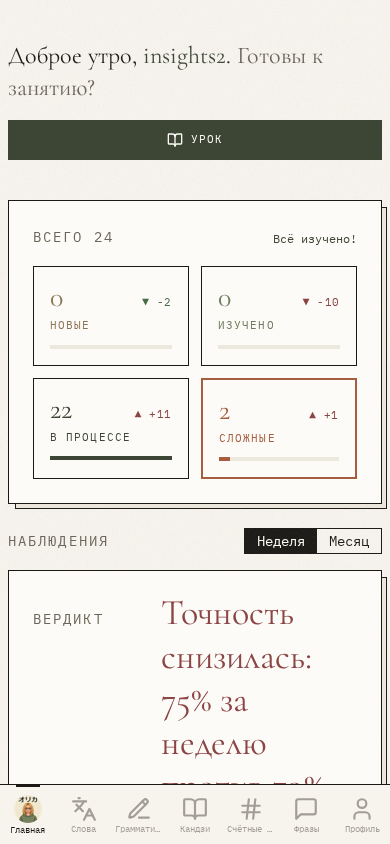
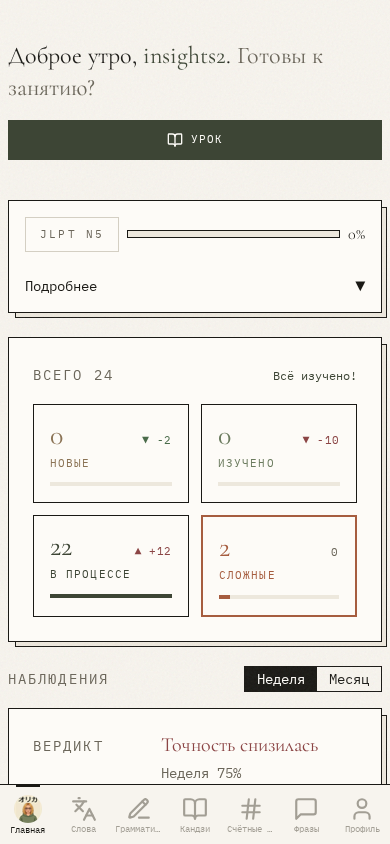
fix(ui): ledger two-tier rows, JLPT card back on top (#749)
Feedback: the verdict phrase rendered at h2 scale and crammed the
fact, the comparison window and the delta into one sentence. Split
each row into a headline fact plus a mono sub-line holding the
numbers (delta arrows, both accuracy windows, sample size, late-vs-
ontime percentages) — the KPI pattern of value/delta/comparison as
separate slots. Verdict font drops to h3. The JLPT progress card
returns to the top of home, above the counts card. Node seed script
now emits raw-deflate wire format and valid 26-char ULIDs.

diff --git a/origa_ui/src/pages/home/insights/mod.rs b/origa_ui/src/pages/home/insights/mod.rs
@@ -8,11 +8,11 @@ pub mod week;
 
 pub use panels_data::{InsightsPanels, compute_insights_panels};
 
-use hardest_words::{words_label, words_verdict_text};
+use hardest_words::{words_label, words_subline_text, words_verdict_text};
 use leptos::prelude::*;
-use overdue::{overdue_label, overdue_verdict_text};
-use pace::{pace_label, pace_verdict_text};
-use time_of_day::{time_label, time_verdict_text};
+use overdue::{overdue_label, overdue_subline_text, overdue_verdict_text};
+use pace::{pace_label, pace_subline_text, pace_verdict_text};
+use time_of_day::{time_label, time_subline_text, time_verdict_text};
 use week::{verdict_label, week_subline_text, week_verdict_class, week_verdict_text};
 
 use crate::i18n::{td_string, use_i18n};
@@ -105,6 +105,9 @@ pub fn InsightsSection(
                         pace_verdict_text(i18n, panels.get().pace.as_ref())
                     })
                     phrase_class=Signal::derive(|| "heading-h3 text-[var(--fg-black)]".to_string())
+                    subline=Signal::derive(move || {
+                        pace_subline_text(i18n, panels.get().pace.as_ref())
+                    })
                     row_test_id=Signal::derive(move || format!("{}-pace", section_prefix()))
                 />
                 <LedgerRow
@@ -113,6 +116,9 @@ pub fn InsightsSection(
                         time_verdict_text(i18n, panels.get().time_of_day.as_ref())
                     })
                     phrase_class=Signal::derive(|| "heading-h3 text-[var(--fg-black)]".to_string())
+                    subline=Signal::derive(move || {
+                        time_subline_text(i18n, panels.get().time_of_day.as_ref())
+                    })
                     row_test_id=Signal::derive(move || format!("{}-time-of-day", section_prefix()))
                 />
                 <LedgerRow
@@ -121,6 +127,9 @@ pub fn InsightsSection(
                         overdue_verdict_text(i18n, panels.get().overdue.as_ref())
                     })
                     phrase_class=Signal::derive(|| "heading-h3 text-[var(--fg-black)]".to_string())
+                    subline=Signal::derive(move || {
+                        overdue_subline_text(i18n, panels.get().overdue.as_ref())
+                    })
                     row_test_id=Signal::derive(move || format!("{}-overdue", section_prefix()))
                 />
                 <LedgerRow
@@ -129,19 +138,12 @@ pub fn InsightsSection(
                         words_verdict_text(i18n, panels.get().hardest_words.as_ref())
                     })
                     phrase_class=Signal::derive(|| "heading-h3 text-[var(--fg-black)]".to_string())
+                    subline=Signal::derive(move || {
+                        words_subline_text(i18n, panels.get().hardest_words.as_ref())
+                    })
                     row_test_id=Signal::derive(move || format!("{}-hardest-words", section_prefix()))
                 />
             </div>
-
-            <p class="mt-3 text-xs text-[var(--fg-muted)] font-mono">
-                {move || {
-                    let locale = i18n.get_locale();
-                    td_string!(locale, insights.week_subline,
-                        week = panels.get().week.as_ref().map(|w| w.week_accuracy_pct).unwrap_or(0),
-                        month = panels.get().month.as_ref().and_then(|m| m.month_accuracy_pct).unwrap_or(0)
-                    )
-                }}
-            </p>
         </section>
     }
 }

diff --git a/origa_ui/src/pages/home/home_wasm_tests.rs b/origa_ui/src/pages/home/home_wasm_tests.rs
@@ -347,7 +347,7 @@ async fn insights_section_with_full_data_renders_concrete_verdicts() {
     });
     tick().await;
 
-    // Вердикт недели: фраза со стабильной оценкой.
+    // Вердикт недели: фраза-статус + subline с точностью обоих окон.
     let verdict_text = wrapper
         .query_selector("[data-testid=\"is4-week-verdict\"]")
         .unwrap()
@@ -355,8 +355,10 @@ async fn insights_section_with_full_data_renders_concrete_verdicts() {
         .text_content()
         .unwrap();
     assert!(
-        verdict_text.contains("84"),
-        "week verdict must show the percentage; got: {verdict_text}"
+        verdict_text.contains("Accuracy is steady")
+            && verdict_text.contains("84")
+            && verdict_text.contains("70"),
+        "week verdict row must show the status phrase and both windows; got: {verdict_text}"
     );
 
     // Темп: число повторений и дельта.
@@ -367,8 +369,8 @@ async fn insights_section_with_full_data_renders_concrete_verdicts() {
         .text_content()
         .unwrap();
     assert!(
-        pace_text.contains("Reviews per day: 67") && pace_text.contains("12"),
-        "pace verdict must show the per-day count and delta; got: {pace_text}"
+        pace_text.contains("Reviews per day: 67") && pace_text.contains("+12"),
+        "pace row must show the per-day count and the delta sub-line; got: {pace_text}"
     );
 
     // Худшее время: окно после 20:00.
@@ -379,8 +381,8 @@ async fn insights_section_with_full_data_renders_concrete_verdicts() {
         .text_content()
         .unwrap();
     assert!(
-        time_text.contains("after 20:00"),
-        "time verdict must name the worst window; got: {time_text}"
+        time_text.contains("after 20:00") && time_text.contains("23 answers"),
+        "time row must name the worst window and the sample sub-line; got: {time_text}"
     );
 
     // Просрочка: потеря пунктов.
@@ -391,8 +393,8 @@ async fn insights_section_with_full_data_renders_concrete_verdicts() {
         .text_content()
         .unwrap();
     assert!(
-        overdue_text.contains("14 p.p."),
-        "overdue verdict must show the drop; got: {overdue_text}"
+        overdue_text.contains("14 p.p.") && overdue_text.contains("72%"),
+        "overdue row must show the drop and the late-vs-ontime sub-line; got: {overdue_text}"
     );
 
     // Тяжёлые слова: доля.
@@ -403,8 +405,8 @@ async fn insights_section_with_full_data_renders_concrete_verdicts() {
         .text_content()
         .unwrap();
     assert!(
-        words_text.contains("1 in 38"),
-        "hard-words verdict must show the ratio; got: {words_text}"
+        words_text.contains("2 hard words of 76") && words_text.contains("38"),
+        "hard-words row must show the share and the one-in-N sub-line; got: {words_text}"
     );
 }
 
@@ -453,7 +455,8 @@ async fn insights_section_period_switch_swaps_the_verdict() {
     tick().await;
 
     assert!(
-        verdict_text(&wrapper).contains("74"),
+        verdict_text(&wrapper).contains("Accuracy has dropped")
+            && verdict_text(&wrapper).contains("74"),
         "month mode must swap to the month verdict; got: {}",
         verdict_text(&wrapper)
     );

diff --git a/origa_ui/src/pages/home/insights/pace.rs b/origa_ui/src/pages/home/insights/pace.rs
@@ -1,4 +1,6 @@
 //! Строка «Темп»: среднее повторений за день против прошлых 14 дней.
+//! Фраза держит только факт; дельта и окно сравнения — в sub-line
+//! (паттерн KPI-строки: headline / delta / comparison label).
 
 use crate::i18n::{I18nContext, Locale, td_string};
 use origa::domain::insights::PaceInsight;
@@ -26,18 +28,26 @@ pub(crate) fn pace_phrase_kind(pace: Option<&PaceInsight>) -> PacePhrase {
 /// Фраза темпа выбранного периода данных.
 pub(crate) fn pace_verdict_text(i18n: I18nContext<Locale>, pace: Option<&PaceInsight>) -> String {
     let locale = i18n.get_locale();
+    match pace {
+        None => td_string!(locale, insights.pace_empty).to_string(),
+        Some(data) => td_string!(locale, insights.pace_up, count = data.per_day).to_string(),
+    }
+}
+
+/// Sub-line темпа: дельта со стрелкой и окно сравнения.
+pub(crate) fn pace_subline_text(i18n: I18nContext<Locale>, pace: Option<&PaceInsight>) -> String {
+    let locale = i18n.get_locale();
     let Some(data) = pace else {
-        return td_string!(locale, insights.pace_empty).to_string();
+        return String::new();
     };
-    let count = data.per_day;
     match pace_phrase_kind(Some(data)) {
-        PacePhrase::Empty => td_string!(locale, insights.pace_empty).to_string(),
-        PacePhrase::Up => td_string!(locale, insights.pace_up, count = count, delta = data.delta),
+        PacePhrase::Empty => String::new(),
+        PacePhrase::Up => td_string!(locale, insights.pace_sub_up, delta = data.delta).to_string(),
         PacePhrase::Down => {
             let magnitude = -data.delta;
-            td_string!(locale, insights.pace_down, count = count, delta = magnitude)
+            td_string!(locale, insights.pace_sub_down, delta = magnitude).to_string()
         },
-        PacePhrase::Flat => td_string!(locale, insights.pace_flat, count = count),
+        PacePhrase::Flat => td_string!(locale, insights.pace_sub_flat).to_string(),
     }
 }
 

diff --git a/origa_ui/src/pages/home/insights/week.rs b/origa_ui/src/pages/home/insights/week.rs
@@ -19,26 +19,17 @@ pub(crate) fn week_phrase_kind(verdict: Option<&WeekVerdict>) -> WeekPhrase {
     }
 }
 
-/// Фраза вердикта выбранного периода.
+/// Фраза вердикта выбранного периода: только факт. Числа обоих окон —
+/// в `week_subline_text`, чтобы строка читалась одним взглядом.
 pub(crate) fn week_verdict_text(
     i18n: I18nContext<Locale>,
     verdict: Option<&WeekVerdict>,
 ) -> String {
     let locale = i18n.get_locale();
-    let Some(data) = verdict else {
-        return td_string!(locale, insights.week_empty).to_string();
-    };
-    match week_phrase_kind(Some(data)) {
+    match week_phrase_kind(verdict) {
         WeekPhrase::Empty => td_string!(locale, insights.week_empty).to_string(),
-        WeekPhrase::Dipping => td_string!(
-            locale,
-            insights.week_dipping,
-            week = data.week_accuracy_pct,
-            month = data.month_accuracy_pct.unwrap_or(0)
-        ),
-        WeekPhrase::Holding => {
-            td_string!(locale, insights.week_holding, week = data.week_accuracy_pct)
-        },
+        WeekPhrase::Dipping => td_string!(locale, insights.week_dipping).to_string(),
+        WeekPhrase::Holding => td_string!(locale, insights.week_holding).to_string(),
     }
 }
 
@@ -62,7 +53,7 @@ pub(crate) fn week_subline_text(
     }
 }
 
-/// Класс фразы вердикта: крупный serif, окрашен по статусу.
+/// Класс фразы вердикта: serif как у остальных строк, окрашен по статусу.
 pub(crate) fn week_verdict_class(verdict: Option<&WeekVerdict>) -> String {
     verdict_class_by_kind(verdict.map(|data| data.kind)).to_string()
 }

diff --git a/origa_ui/src/pages/home/content.rs b/origa_ui/src/pages/home/content.rs
@@ -310,6 +310,11 @@ pub fn HomeContent(#[prop(optional, into)] test_id: Signal<String>) -> impl Into
                     when=move || !is_loading.get()
                     fallback=move || view! { <JlptSkeleton /> }
                 >
+                    <JlptProgressCard
+                        jlpt_progress=Signal::derive(move || jlpt_progress.get())
+                        test_id=Signal::derive(|| "home-jlpt-progress".to_string())
+                    />
+
                     <TodayOverviewCard
                         overview=Signal::derive(move || today_overview.get())
                         forecast=Signal::derive(move || forecast.get())
@@ -319,11 +324,6 @@ pub fn HomeContent(#[prop(optional, into)] test_id: Signal<String>) -> impl Into
                     <InsightsSection
                         panels=insights_panels
                         test_id=Signal::derive(|| "home-insights".to_string())
-                    />
-
-                    <JlptProgressCard
-                        jlpt_progress=Signal::derive(move || jlpt_progress.get())
-                        test_id=Signal::derive(|| "home-jlpt-progress".to_string())
                     />
 
                     <StudiedTodayList

diff --git a/origa_ui/src/pages/home/insights/hardest_words.rs b/origa_ui/src/pages/home/insights/hardest_words.rs
@@ -1,4 +1,5 @@
 //! Строка «Тяжёлые слова»: доля проблемных слов и топ провалов.
+//! Фраза — только доля; мнемоника «одно из N» — в sub-line.
 
 use crate::i18n::{I18nContext, Locale, td_string};
 use origa::domain::insights::HardestWordsInsight;
@@ -15,9 +16,21 @@ pub(crate) fn words_verdict_text(
             locale,
             insights.words_troubled,
             troubled = data.troubled_count,
-            total = data.studied_total,
-            one_in = data.one_in
-        ),
+            total = data.studied_total
+        )
+        .to_string(),
+    }
+}
+
+/// Sub-line тяжёлых слов: как часто встречается такое слово.
+pub(crate) fn words_subline_text(
+    i18n: I18nContext<Locale>,
+    insight: Option<&HardestWordsInsight>,
+) -> String {
+    let locale = i18n.get_locale();
+    match insight {
+        None => String::new(),
+        Some(data) => td_string!(locale, insights.words_sub, one_in = data.one_in).to_string(),
     }
 }
 

diff --git a/origa_ui/src/pages/home/insights/overdue.rs b/origa_ui/src/pages/home/insights/overdue.rs
@@ -36,6 +36,27 @@ pub(crate) fn overdue_verdict_text(
     }
 }
 
+/// Sub-line просрочки: точность поздних ответов против вовремя.
+pub(crate) fn overdue_subline_text(
+    i18n: I18nContext<Locale>,
+    insight: Option<&OverdueInsight>,
+) -> String {
+    let locale = i18n.get_locale();
+    let Some(data) = insight else {
+        return String::new();
+    };
+    if overdue_phrase_kind(Some(data)) != OverduePhrase::Costs {
+        return String::new();
+    }
+    td_string!(
+        locale,
+        insights.overdue_sub,
+        late = data.late_accuracy_pct,
+        ontime = data.ontime_accuracy_pct
+    )
+    .to_string()
+}
+
 /// Метка строки просрочки.
 pub(crate) fn overdue_label(i18n: I18nContext<Locale>) -> String {
     let locale = i18n.get_locale();

diff --git a/origa_ui/src/pages/home/insights/time_of_day.rs b/origa_ui/src/pages/home/insights/time_of_day.rs
@@ -28,6 +28,24 @@ pub(crate) fn time_verdict_text(
     td_string!(locale, insights.time_worst, period = period)
 }
 
+/// Sub-line худшего окна: объём выборки и точность в нём.
+pub(crate) fn time_subline_text(
+    i18n: I18nContext<Locale>,
+    insight: Option<&TimeOfDayInsight>,
+) -> String {
+    let locale = i18n.get_locale();
+    let Some(data) = insight else {
+        return String::new();
+    };
+    td_string!(
+        locale,
+        insights.time_sub,
+        attempts = data.attempts,
+        accuracy = data.accuracy_pct
+    )
+    .to_string()
+}
+
 /// Метка строки худшего времени.
 pub(crate) fn time_label(i18n: I18nContext<Locale>) -> String {
     let locale = i18n.get_locale();

diff --git a/origa_ui/src/pages/home/insights/panel_frame.rs b/origa_ui/src/pages/home/insights/panel_frame.rs
@@ -5,8 +5,8 @@ pub(crate) fn verdict_class_by_kind(
 ) -> &'static str {
     use origa::domain::insights::WeekVerdictKind;
     match kind {
-        None => "heading-h2 text-[var(--fg-muted)]",
-        Some(WeekVerdictKind::Dipping) => "heading-h2 text-[var(--error)]",
-        Some(WeekVerdictKind::Holding) => "heading-h2 text-[var(--success)]",
+        None => "heading-h3 text-[var(--fg-muted)]",
+        Some(WeekVerdictKind::Dipping) => "heading-h3 text-[var(--error)]",
+        Some(WeekVerdictKind::Holding) => "heading-h3 text-[var(--success)]",
     }
 }
